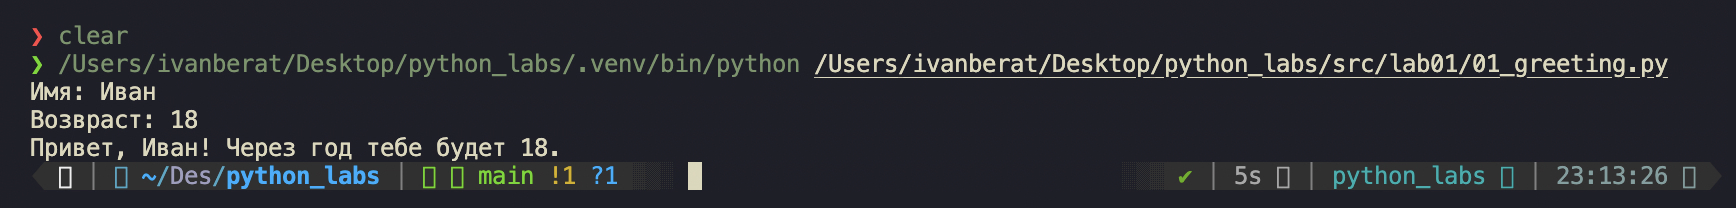
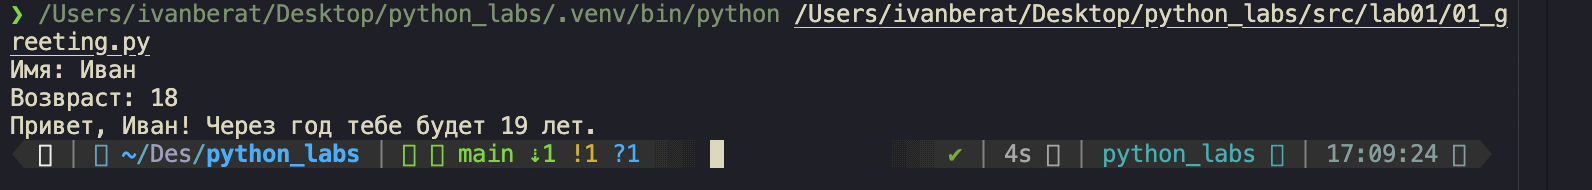
исправления

Changed region(s): [[0.0, 0.0263, 0.9849, 0.9211], [0.5848, 0.7632, 0.9849, 0.9211]]

diff --git a/src/lab01/01_greeting.py b/src/lab01/01_greeting.py
@@ -1,3 +1,3 @@
 a = input('Имя: ')
 b = int(input('Возвраст: '))
-print(f'Привет, {a}! Через год тебе будет {b}.')
+print(f'Привет, {a}! Через год тебе будет {b + 1} лет.')
